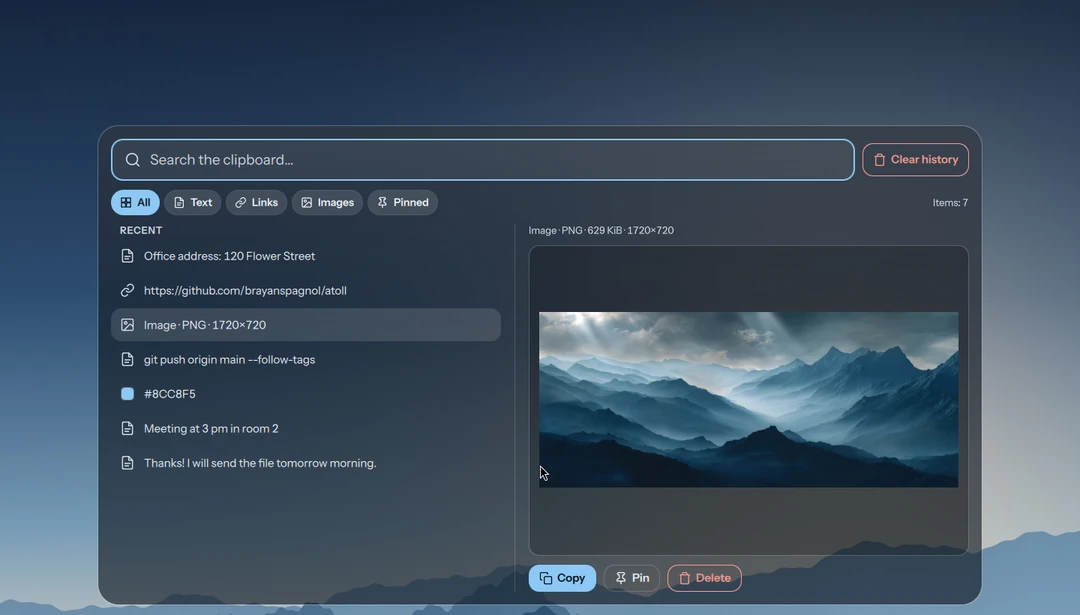
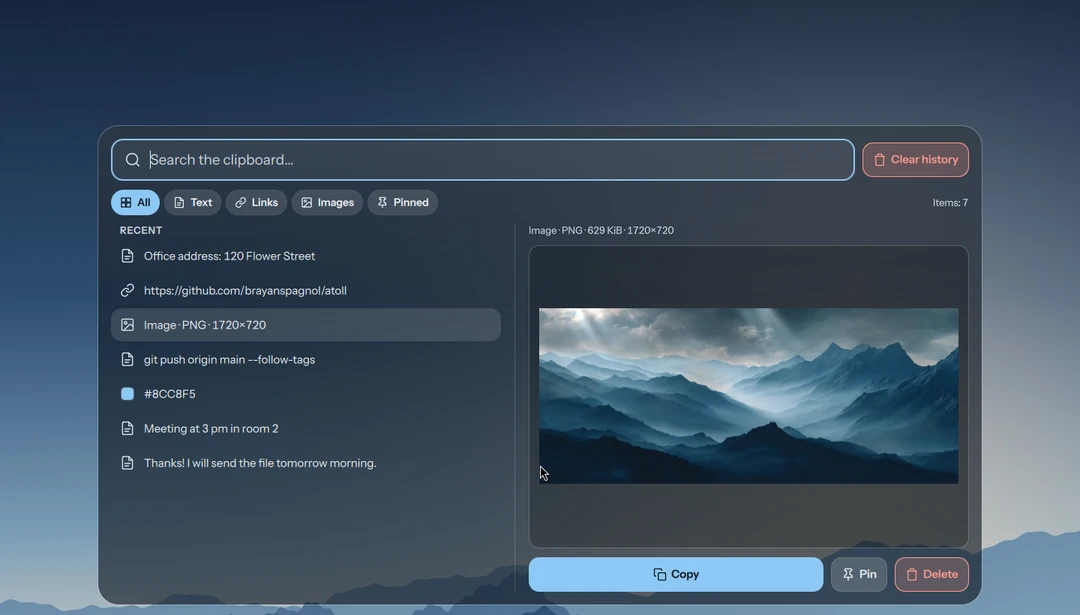
fix: filled backgrounds for the clipboard panel's buttons

diff --git a/shell/Clipboard.qml b/shell/Clipboard.qml
@@ -182,8 +182,9 @@ Scope {
                         }
                     }
                     Btn {
-                        implicitHeight: 44
+                        implicitHeight: 46
                         icon: "trash"; variant: "danger"
+                        color: hovered ? Theme.danger : Qt.rgba(Theme.danger.r, Theme.danger.g, Theme.danger.b, 0.22)
                         text: win.wipeArmed ? Tr.t("Click again to clear") : Tr.t("Clear history")
                         a11y: win.wipeArmed ? Tr.t("Click again within 5 s to confirm") : Tr.t("Clear history")
                         enabledB: !act.running && win.clips.length > 0
@@ -311,14 +312,17 @@ Scope {
                         }
                         RowLayout {
                             spacing: 10
-                            Btn { text: Tr.t("Copy"); icon: "copy"; variant: "solid"; onClicked: win.copy(win.current) }
+                            Btn { text: Tr.t("Copy"); icon: "copy"; variant: "solid"; implicitHeight: 46; Layout.fillWidth: true; onClicked: win.copy(win.current) }
                             Btn {
+                                implicitHeight: 46
+                                color: pressed ? Qt.rgba(1, 1, 1, 0.3) : hovered ? Qt.rgba(1, 1, 1, 0.24) : Qt.rgba(1, 1, 1, 0.16)
+                                border.color: activeFocus ? Theme.ink : Theme.lineStrong
                                 readonly property bool pinned: !!win.current?.pinned
                                 text: pinned ? Tr.t("Unpin") : Tr.t("Pin"); icon: pinned ? "pinOff" : "pin"
                                 enabledB: !act.running
                                 onClicked: pinned ? win.unpin(win.current) : win.pin(win.current)
                             }
-                            Btn { text: Tr.t("Delete"); icon: "trash"; variant: "danger"; enabledB: !act.running; onClicked: win.remove(win.current) }
+                            Btn { text: Tr.t("Delete"); icon: "trash"; variant: "danger"; implicitHeight: 46; color: hovered ? Theme.danger : Qt.rgba(Theme.danger.r, Theme.danger.g, Theme.danger.b, 0.22); enabledB: !act.running; onClicked: win.remove(win.current) }
                         }
                     }
                 }

diff --git a/shell/Btn.qml b/shell/Btn.qml
@@ -13,6 +13,8 @@ Rectangle {
     property bool enabledB: true
     property string a11y: text
     signal clicked()
+    readonly property bool hovered: ma.containsMouse
+    readonly property bool pressed: ma.pressed
     implicitHeight: 36
     implicitWidth: text ? row.implicitWidth + 28 : 44
     radius: Theme.radiusSmall

diff --git a/CHANGELOG.md b/CHANGELOG.md
@@ -6,6 +6,12 @@ All notable changes to this project are documented here. The format follows
 
 ## [Unreleased]
 
+## [1.12.1] - 2026-11-05
+
+### Fixed
+
+- The clipboard panel's buttons have filled backgrounds, so they stay visible over light wallpapers, and Copy spans the free width.
+
 ## [1.12.0] - 2026-11-05
 
 ### Added
@@ -205,7 +211,8 @@ All notable changes to this project are documented here. The format follows
 - Lock screen, idle timers, night light and monitor brightness.
 - Installer, uninstaller, automated tests and an original default wallpaper.
 
-[Unreleased]: https://github.com/brayanspagnol/atoll/compare/v1.12.0...HEAD
+[Unreleased]: https://github.com/brayanspagnol/atoll/compare/v1.12.1...HEAD
+[1.12.1]: https://github.com/brayanspagnol/atoll/compare/v1.12.0...v1.12.1
 [1.12.0]: https://github.com/brayanspagnol/atoll/compare/v1.11.0...v1.12.0
 [1.11.0]: https://github.com/brayanspagnol/atoll/compare/v1.10.1...v1.11.0
 [1.10.1]: https://github.com/brayanspagnol/atoll/compare/v1.10.0...v1.10.1
